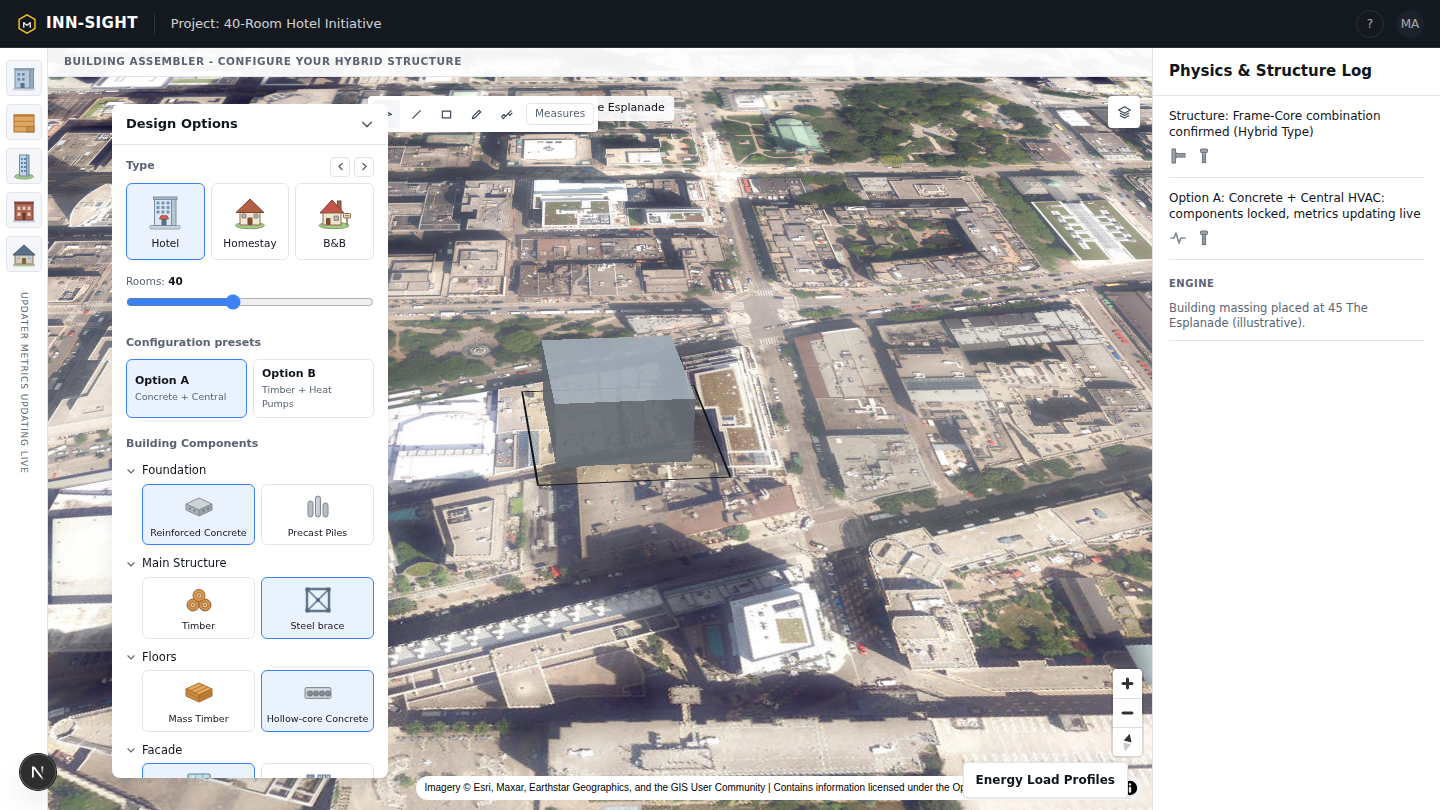
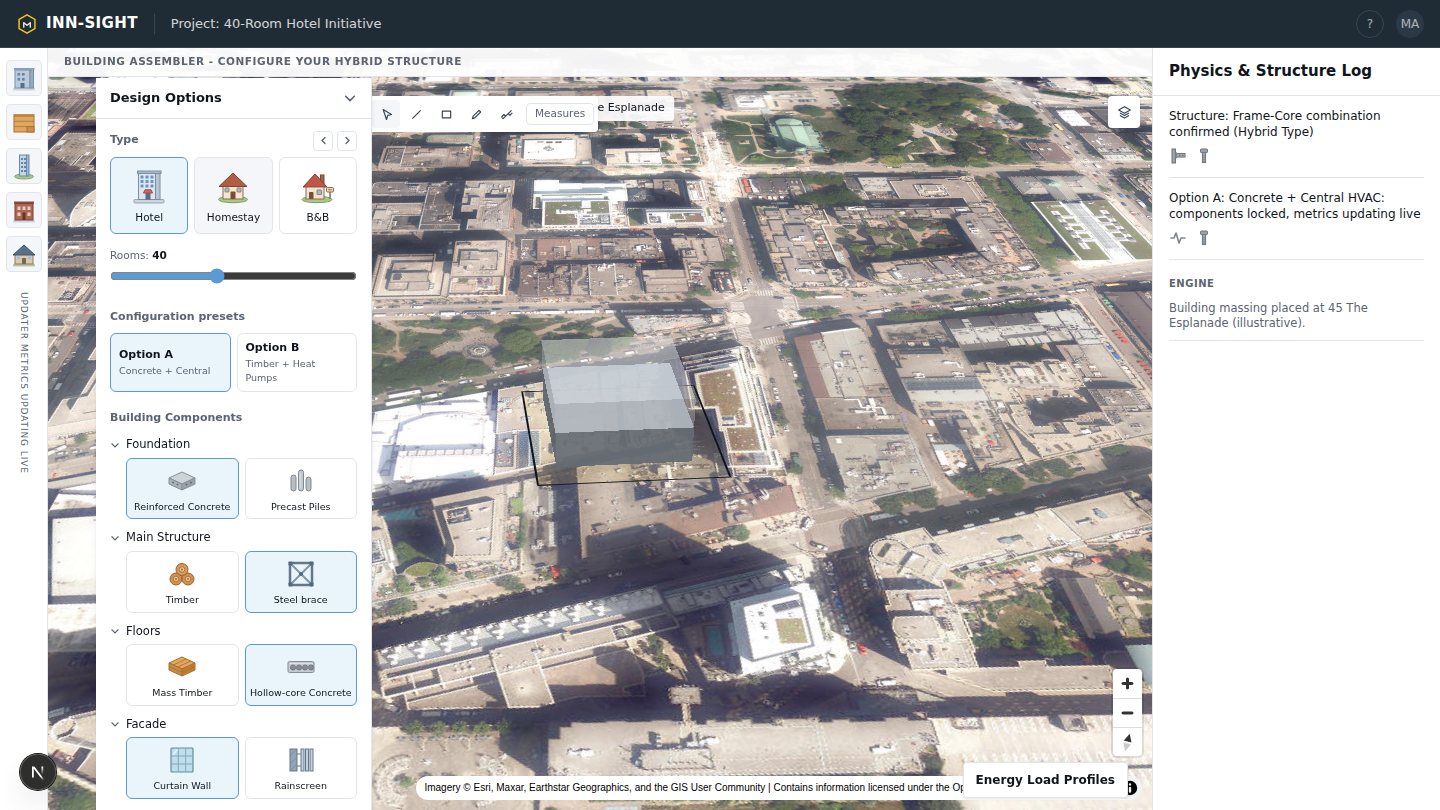
phase-6e: spec-measured polish (ref colours, docked panel, two-tone massing sketch), fresh demo capture

Changed region(s): [[0.0625, 0.0926, 0.2812, 1.0], [0.375, 0.4012, 0.5, 0.5556], [0.9688, 0.0, 1.0, 0.0617]]

diff --git a/web/components/site-map.tsx b/web/components/site-map.tsx
@@ -122,6 +122,19 @@ export function SiteMap({ building }: SiteMapProps) {
           "fill-extrusion-opacity": 0.92,
         },
       });
+      // Unconfigured upper envelope: translucent white shell above the
+      // configured structure, matching the ref sketch treatment.
+      map.addLayer({
+        id: "building-shell",
+        type: "fill-extrusion",
+        source: "building",
+        paint: {
+          "fill-extrusion-color": "#ffffff",
+          "fill-extrusion-height": 0,
+          "fill-extrusion-base": 0,
+          "fill-extrusion-opacity": 0.38,
+        },
+      });
       readyRef.current = true;
       syncBuilding(map, buildingRef.current);
     });
@@ -149,7 +162,7 @@ export function SiteMap({ building }: SiteMapProps) {
       >
         <LayersIcon />
       </button>
-      <div className="pointer-events-none absolute left-1/2 top-12 -translate-x-1/2 rounded bg-white/90 px-2.5 py-1 text-[11px] font-medium text-text-strong shadow">
+      <div className="pointer-events-none absolute left-1/2 top-24 -translate-x-1/2 rounded bg-white/90 px-2.5 py-1 text-[11px] font-medium text-text-strong shadow">
         SITE: {SITE.name}
       </div>
     </div>
@@ -210,9 +223,12 @@ function LayersIcon() {
 }
 
 function syncBuilding(map: maplibregl.Map, building: BuildingSpec | null) {
-  if (!map.getLayer("building-mass")) return;
-  const height = building ? building.floors * 3.4 : 0;
+  if (!map.getLayer("building-mass") || !map.getLayer("building-shell")) return;
+  const total = building ? building.floors * 3.4 : 0;
+  const lower = total * 0.55;
   const colour = building ? STRUCTURE_COLOUR[building.structure] : "#9aa5b1";
-  map.setPaintProperty("building-mass", "fill-extrusion-height", height);
+  map.setPaintProperty("building-mass", "fill-extrusion-height", lower);
   map.setPaintProperty("building-mass", "fill-extrusion-color", colour);
+  map.setPaintProperty("building-shell", "fill-extrusion-base", lower);
+  map.setPaintProperty("building-shell", "fill-extrusion-height", total);
 }

diff --git a/web/components/design-panel.tsx b/web/components/design-panel.tsx
@@ -118,7 +118,7 @@ export function DesignPanel({
   }
 
   return (
-    <div className="pointer-events-auto absolute left-16 top-14 z-10 flex max-h-[calc(100%-5.5rem)] w-[276px] flex-col rounded-lg bg-panel shadow-xl">
+    <div className="pointer-events-auto absolute bottom-0 left-12 top-[30px] z-10 flex w-[276px] flex-col border-r border-panel-border bg-panel shadow-md">
       <button
         onClick={() => setCollapsed(!collapsed)}
         className="flex items-center justify-between border-b border-panel-border px-3.5 py-2.5"
@@ -154,7 +154,7 @@ export function DesignPanel({
                   title={t.blurb}
                   className={`flex flex-col items-center gap-1 rounded-md border px-1 py-2 ${
                     uiType === t.key
-                      ? "border-[#3b82f6] bg-[#eaf2fe]"
+                      ? "border-[#5B9BD5] bg-[#EAF4FB]"
                       : "border-panel-border hover:bg-panel-muted"
                   }`}
                 >
@@ -178,7 +178,7 @@ export function DesignPanel({
                 max={uiType === "hotel" ? 80 : 16}
                 value={rooms}
                 onChange={(e) => onRoomsChange(Number(e.target.value))}
-                className="mt-0.5 w-full accent-[#3b82f6]"
+                className="mt-0.5 w-full accent-[#5B9BD5]"
               />
             </div>
           </div>
@@ -228,7 +228,7 @@ export function DesignPanel({
                             onClick={() => onComponentChange(section.field, value)}
                             className={`flex flex-col items-center gap-1 rounded-md border px-1 py-1.5 ${
                               components[section.field] === value
-                                ? "border-[#3b82f6] bg-[#eaf2fe]"
+                                ? "border-[#5B9BD5] bg-[#EAF4FB]"
                                 : "border-panel-border hover:bg-panel-muted"
                             }`}
                           >
@@ -283,7 +283,7 @@ function PresetButton({
       onClick={onClick}
       className={`rounded-md border px-2 py-1.5 text-left ${
         active
-          ? "border-[#3b82f6] bg-[#eaf2fe]"
+          ? "border-[#5B9BD5] bg-[#EAF4FB]"
           : "border-panel-border hover:bg-panel-muted"
       }`}
     >

diff --git a/web/app/globals.css b/web/app/globals.css
@@ -1,13 +1,13 @@
 @import "tailwindcss";
 
 @theme {
-  --color-ink: #14181f;
-  --color-ink-raised: #1c222c;
-  --color-ink-border: #2c3442;
+  --color-ink: #1f2c35;
+  --color-ink-raised: #2a3945;
+  --color-ink-border: #354552;
   --color-panel: #ffffff;
   --color-panel-border: #e2e6ec;
   --color-panel-muted: #f4f6f9;
-  --color-chart-navy: #0d2b45;
+  --color-chart-navy: #123346;
   --color-chart-navy-deep: #092036;
   --color-accent: #f5c518;
   --color-alert: #e5484d;

diff --git a/web/components/profiles-panel.tsx b/web/components/profiles-panel.tsx
@@ -61,7 +61,7 @@ export function ProfilesPanel({ buildingType, onClose }: ProfilesPanelProps) {
           <div className="grid grid-cols-2 gap-3">
             <LoadChart
               title="Generic Commercial Office Load (Smooth Arch)"
-              colour="#f5c518"
+              colour="#e4d659"
               series={OFFICE_ARCH.map((kw, hour) => ({ hour, kw }))}
               height={230}
             />
@@ -74,7 +74,7 @@ export function ProfilesPanel({ buildingType, onClose }: ProfilesPanelProps) {
                       ? "Spiky, Cyclical"
                       : "Smooth, Base-Load Heavy"
                 })`}
-                colour="#f5c518"
+                colour="#e4d659"
                 series={profile.hourly_shape.map((kw, hour) => ({ hour, kw }))}
                 height={230}
               />
@@ -110,7 +110,7 @@ export function ProfilesPanel({ buildingType, onClose }: ProfilesPanelProps) {
         <aside className="w-64 shrink-0 border-l border-panel-border bg-panel p-4">
           <h3 className="text-[14px] font-semibold">Energy Load Profiles</h3>
           <p className="mt-2 text-[11px] text-text-soft">Selected profile:</p>
-          <div className="mt-1.5 space-y-1.5 rounded-md border-2 border-[#3b82f6] p-2.5">
+          <div className="mt-1.5 space-y-1.5 rounded-md border-2 border-[#2E86AB] p-2.5">
             {profiles &&
               (Object.keys(profiles) as BuildingType[]).map((key) => (
                 <label
@@ -122,7 +122,7 @@ export function ProfilesPanel({ buildingType, onClose }: ProfilesPanelProps) {
                     name="profile"
                     checked={selected === key}
                     onChange={() => setSelected(key)}
-                    className="accent-[#3b82f6]"
+                    className="accent-[#5B9BD5]"
                   />
                   {profiles[key].label}
                 </label>

diff --git a/web/components/physics-log.tsx b/web/components/physics-log.tsx
@@ -20,7 +20,7 @@ export function PhysicsLog({ entries, runtimeLines }: PhysicsLogProps) {
             <p
               className={`text-[12px] leading-snug ${
                 entry.kind === "warning"
-                  ? "font-medium text-[#8a5a00]"
+                  ? "font-medium text-[#A35A52]"
                   : "text-text-strong"
               }`}
             >

diff --git a/README.md b/README.md
@@ -29,7 +29,7 @@ Copy `.env.example` values into `api/.env` and `web/.env.local`. Every integrati
 
 ![Demo](web/public/demo.gif)
 
-Place the building, toggle concrete + central HVAC against mass timber + heat pumps, stress-test a fully booked heat-wave weekend (36.2 C, the documented July 14, 2026 Toronto event), and read the memo. For the 40-room boutique the flip to Option B costs $159 per tonne of CO2e avoided over the RICS 60-year life, under Canada's $170 federal 2030 benchmark; for a 6-room homestay the same swap fails the bar at $358 per tonne and the memo honestly recommends Option A. That flip is enforced by a pytest.
+Assemble the building component by component (foundation, structure, floors, facade, energy systems) on the City of Toronto's 8 cm aerial imagery, toggle concrete + central HVAC against mass timber + heat pumps, stress-test a fully booked heat-wave weekend (36.2 C, the documented July 14, 2026 Toronto event), and read the memo. A physics and structure log narrates each configuration choice. For the 40-room boutique the flip to Option B costs $159 per tonne of CO2e avoided over the RICS 60-year life, under Canada's $170 federal 2030 benchmark; for a 6-room homestay the same swap fails the bar at $358 per tonne and the memo honestly recommends Option A. That flip is enforced by a pytest.
 
 ## Real vs Simulated ledger
 